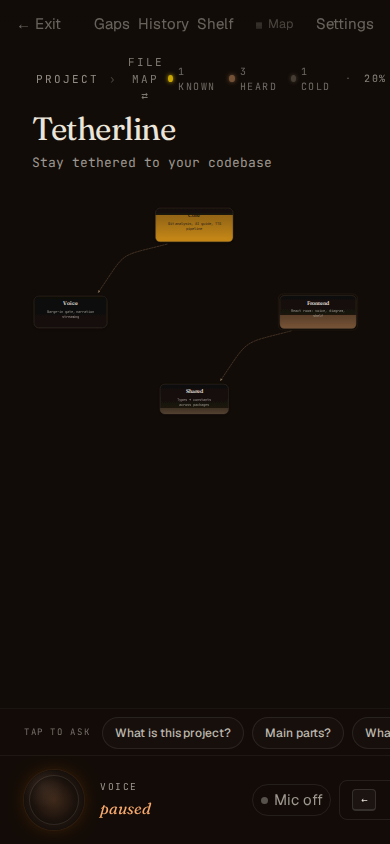
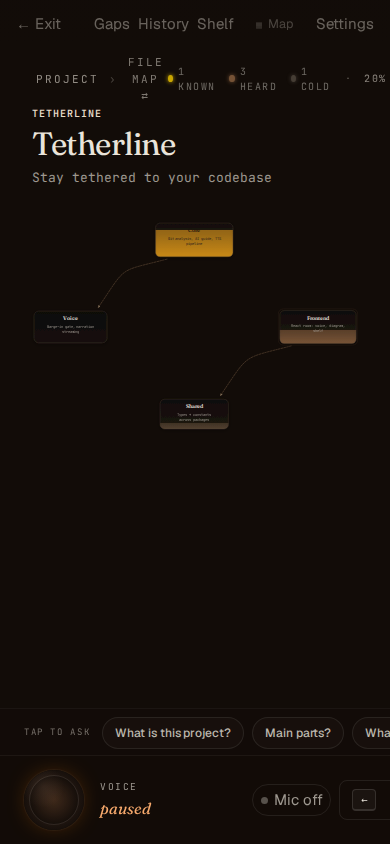
H6 (1/5): wire the B16 you-are-here breadcrumb + scene
B16's Breadcrumb (buildBreadcrumb, 6 tested assertions) was core-only,
unwired, and name-collided with HermesDiagram's local nav breadcrumb.
Wired the real component (aliased PositionTrail) into the diagram
header, driven by a new store field breadcrumbPocket (the deep_dive
orchestrator will set this; scene fixtures seed it). Spine derived
from live scope/title. New 'breadcrumb' scene + SCENES entry +
baselines. Verified: renders "CORE › TOKEN REFRESH › 3/8" — the real
spine▸pocket▸n/N trail, on-theme, clean. typecheck 4/4, scenes 24/24.
Reused the tested core; no reimplementation, no fake.

diff --git a/packages/frontend/src/components/room/HermesDiagram.tsx b/packages/frontend/src/components/room/HermesDiagram.tsx
@@ -23,6 +23,7 @@ import { useAudioStore } from '../../state/audio-store.js';
 import { TimeSlider } from './TimeSlider.js';
 import { heatmapOverlayActive } from './heatmap-overlay.js';
 import { concernNodeIds, isConcernActive } from './concern-tint.js';
+import { Breadcrumb as PositionTrail } from './Breadcrumb.js';
 import { grillScreenActive } from './grill-screen.js';
 import { GrillScreen } from './GrillScreen.js';
 import { annotationToShelfArtifact, pinnedNodeIds } from './annotate-shelf.js';
@@ -77,6 +78,7 @@ export function HermesDiagram() {
   const phase = useSessionStore(s => s.state.phase);
   const currentBriefingId = useSessionStore(s => s.currentBriefing?.briefingId ?? null);
   const skillResult = useSessionStore(s => s.skillResult);
+  const breadcrumbPocket = useSessionStore(s => s.breadcrumbPocket);
   // Karaoke-ball: when a stream chunk is playing, the backend tagged
   // it with diagram-node labels mentioned in its text. These nodes
   // glow during the chunk's audio playback so the user's eye follows
@@ -501,6 +503,13 @@ export function HermesDiagram() {
             />
             <KnowledgeStats nodes={payload.nodes} />
           </div>
+          {/* "You are here" position trail (B16) — spine ▸ pocket ▸
+           *  n/N. The persistent subway-model orientation surface;
+           *  the pocket segment appears only inside a deep_dive. */}
+          <PositionTrail
+            spine={scope === 'project' ? [payload.title] : ['Project', payload.title]}
+            pocket={breadcrumbPocket ?? undefined}
+          />
           <h1
             className="font-serif"
             style={{ fontSize: 32, color: 'var(--cream-100)', letterSpacing: '-0.015em', margin: '6px 0 8px', fontWeight: 400 }}

diff --git a/packages/frontend/src/state/session-store.ts b/packages/frontend/src/state/session-store.ts
@@ -79,6 +79,10 @@ interface SessionStore {
    *  deterministically and skips the /api/diagram fetch + WS/backend.
    *  Always null in production (no scene param → never set). */
   sceneDiagramPayload: DiagramPayload | null;
+  /** Active deep_dive pocket position, surfaced by the "you are here"
+   *  breadcrumb (B16). null when not inside a pocket. Set by the
+   *  deep_dive orchestrator (and scene fixtures). */
+  breadcrumbPocket: { focus?: string; slide: number; total: number } | null;
 
   // ─── Vision mechanics ────────────────────────────────────
   currentBriefing: {
@@ -162,6 +166,7 @@ export const useSessionStore = create<SessionStore>((set, get) => ({
   understanding: null,
   skillResult: null,
   sceneDiagramPayload: null,
+  breadcrumbPocket: null,
   skillClarification: null,
   visualLayer: 1 as VisualLayer,
   conceptualSteps: [],

diff --git a/packages/frontend/src/scenes/registry.ts b/packages/frontend/src/scenes/registry.ts
@@ -172,6 +172,23 @@ export const SCENES: Scene[] = [
       });
     },
   },
+  {
+    name: 'breadcrumb',
+    description: 'You-are-here position trail inside a deep_dive pocket',
+    seed: () => {
+      seedBase({
+        scope: 'module/core', view: 'logic', title: 'Core', subtitle: 'Git analysis · AI guide · TTS',
+        nodes: [
+          { id: 'module/core', label: 'Core', description: 'The module', role: 'source', weight: 1, level: 'explained' },
+          { id: 'file/core/analyzer', label: 'analyzer.ts', description: 'LLM Q&A + skills', role: 'transform', weight: 0.8, level: 'heard' },
+        ],
+        edges: [{ from: 'module/core', to: 'file/core/analyzer', kind: 'contains' }],
+      });
+      useSessionStore.setState({
+        breadcrumbPocket: { focus: 'token refresh', slide: 2, total: 8 },
+      });
+    },
+  },
 ];
 
 export function getScene(name: string): Scene | undefined {

diff --git a/test/e2e/scenes.spec.ts b/test/e2e/scenes.spec.ts
@@ -32,6 +32,7 @@ const SCENES = [
   'shelf-notes',
   'shelf-tasks',
   'descend',
+  'breadcrumb',
 ];
 
 const VIEWPORTS = [
